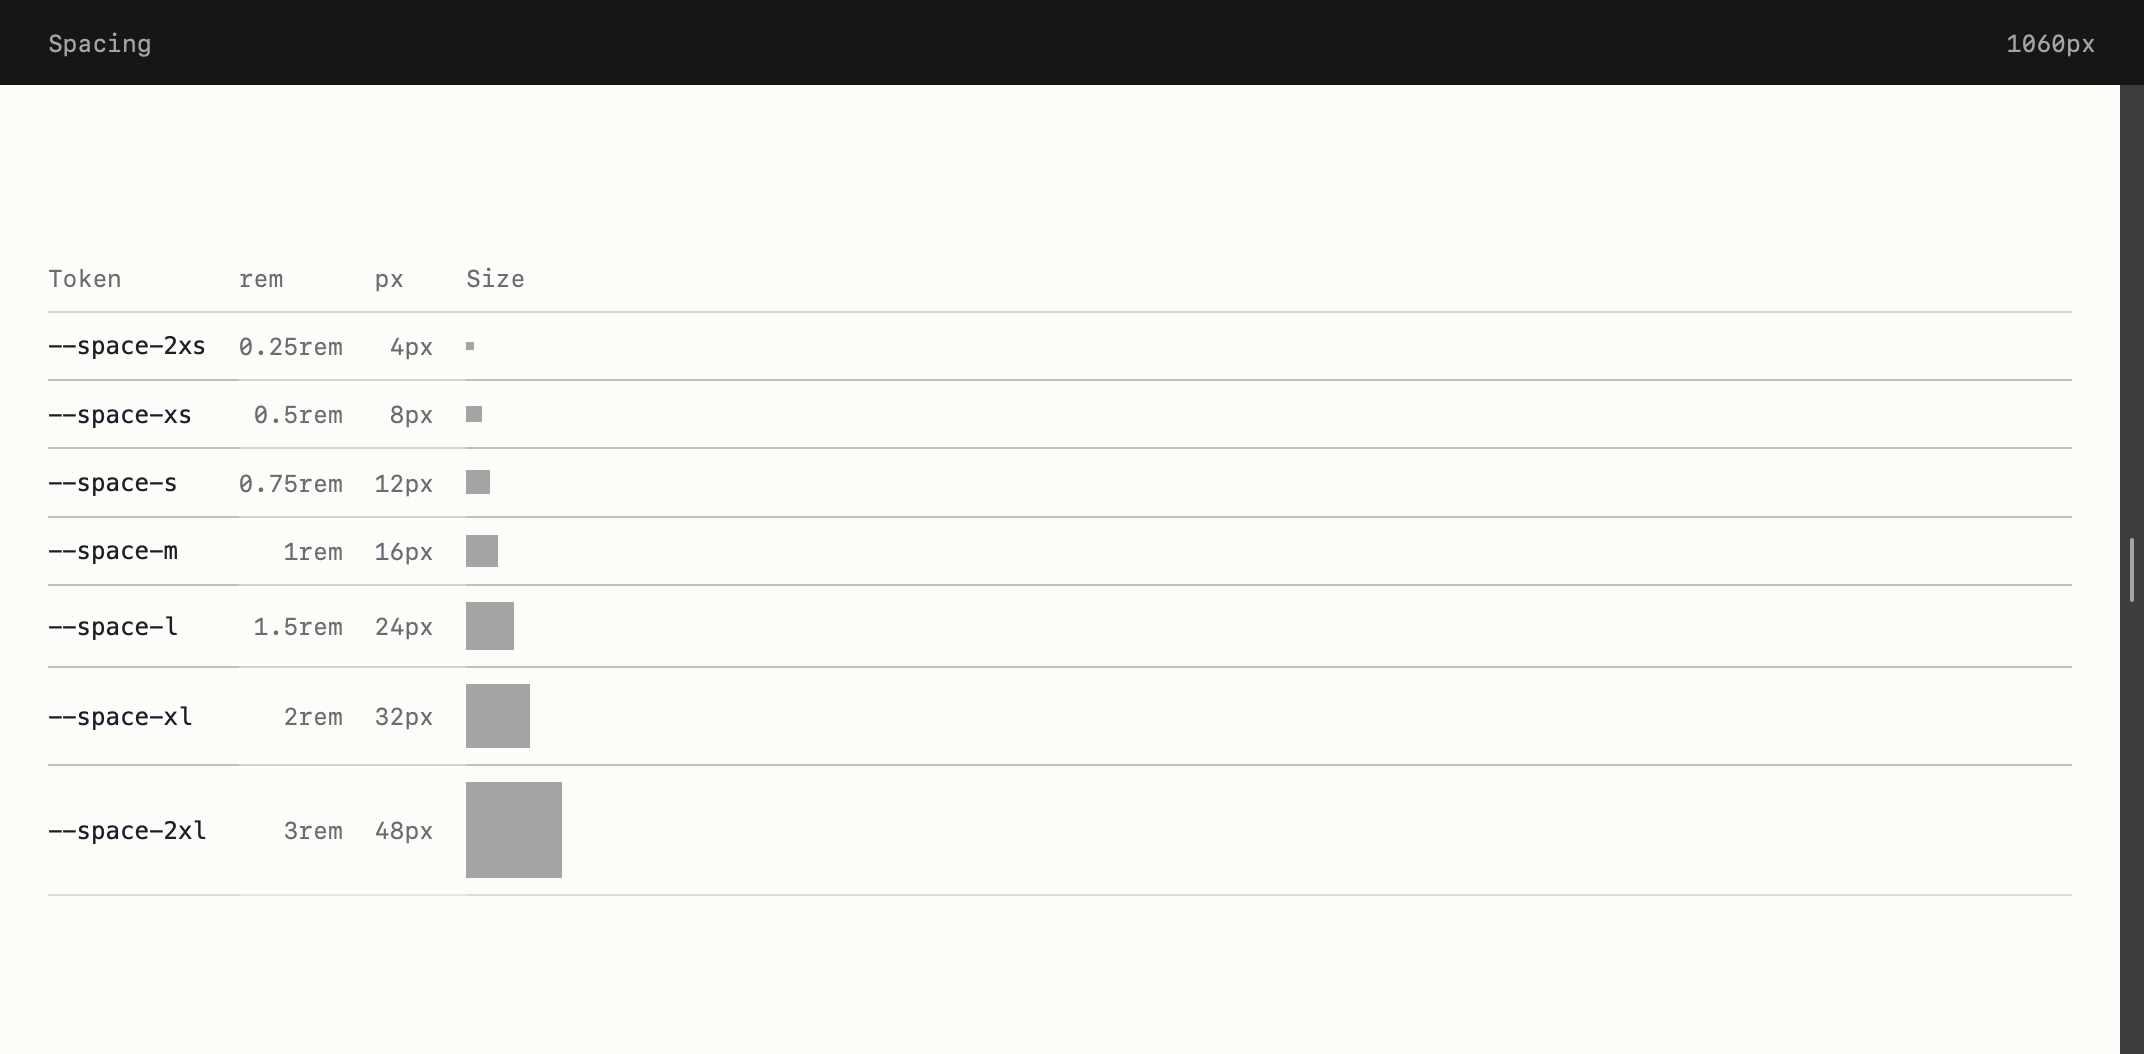
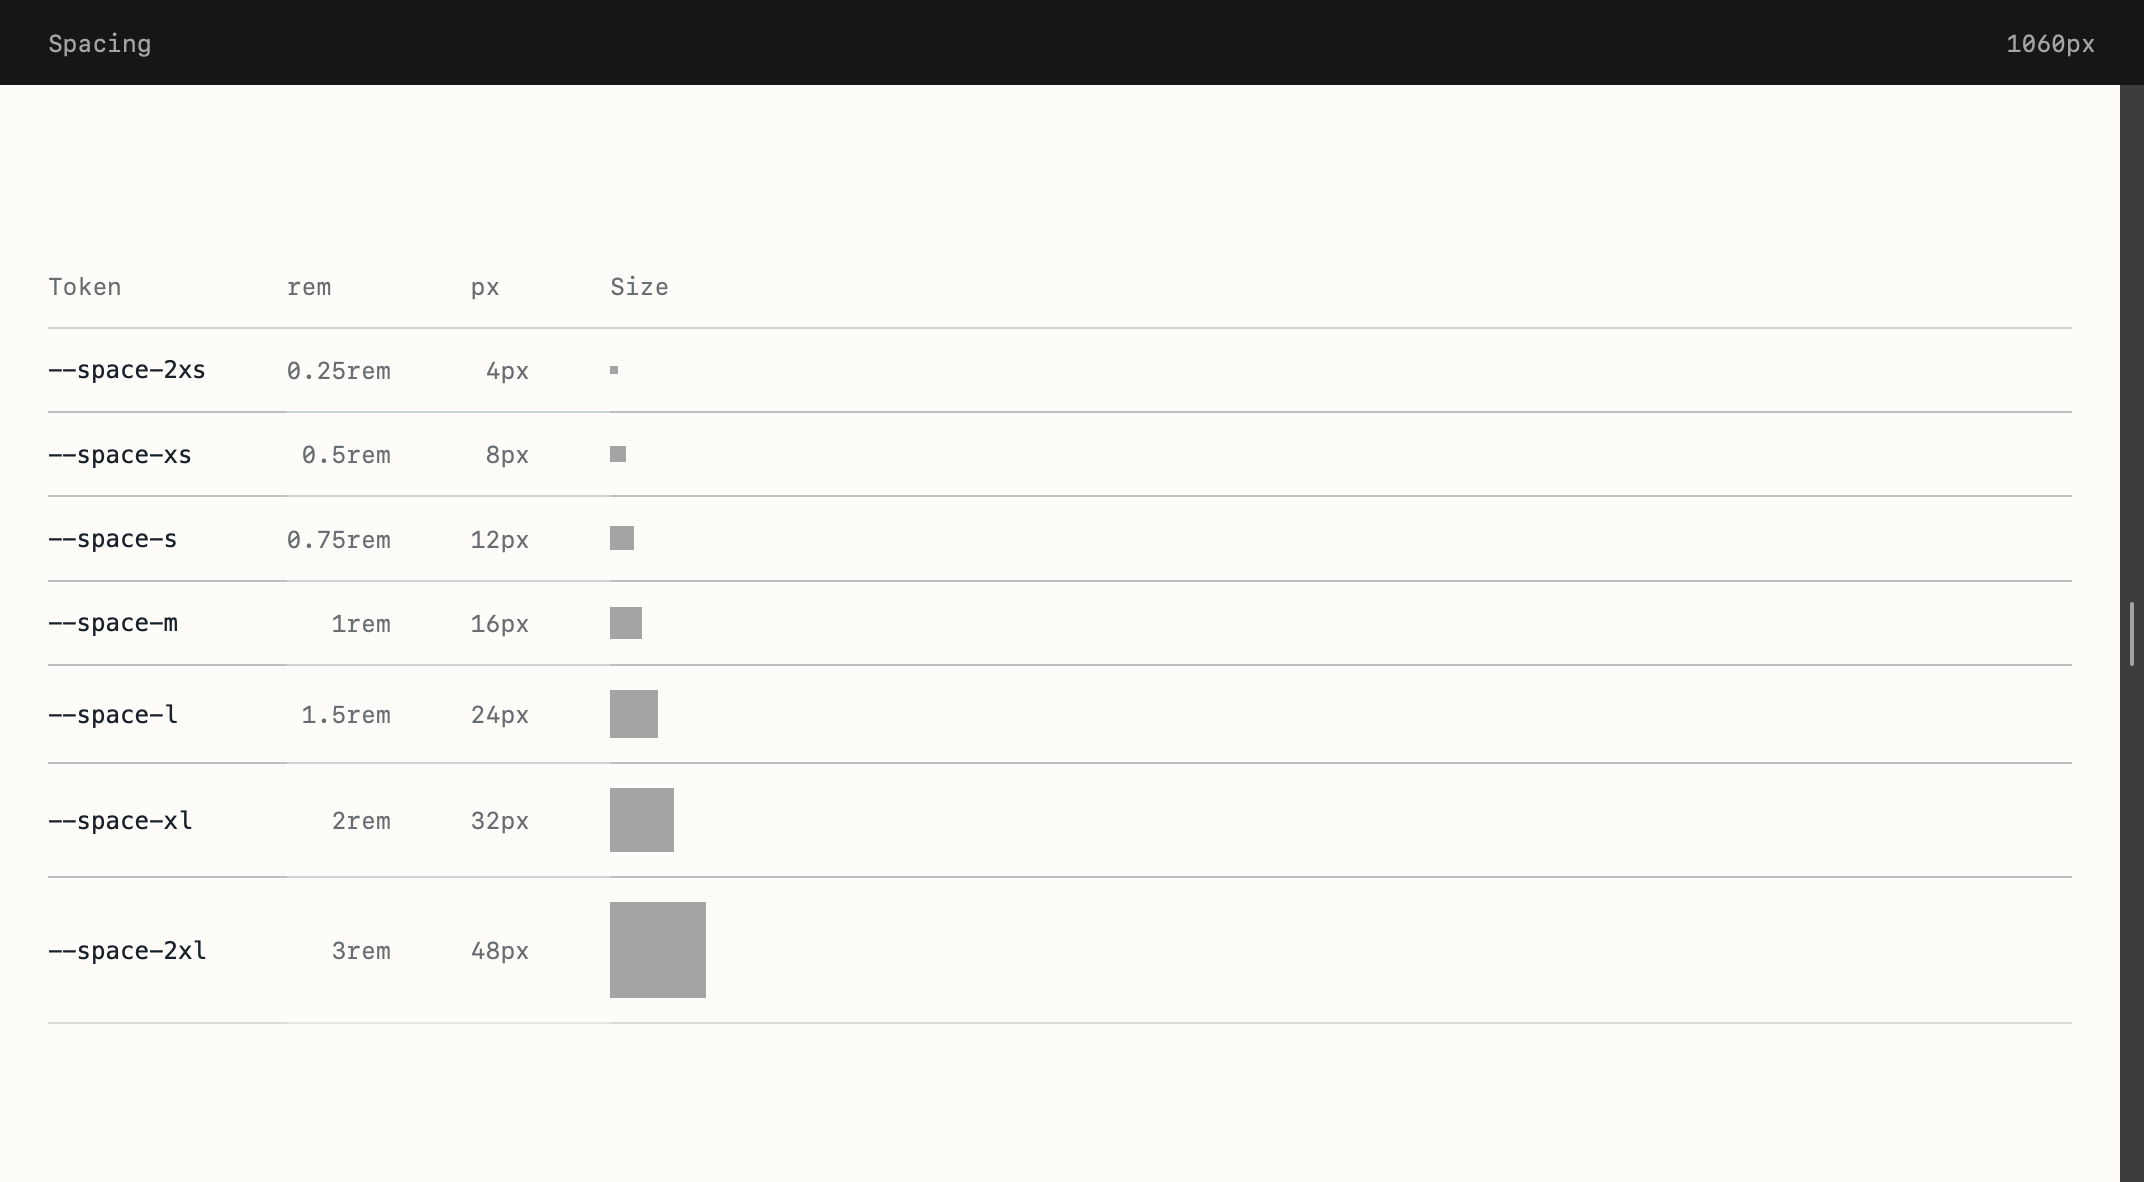
README screenshots match its examples, roomier sizes table

diff --git a/assets/frame.css b/assets/frame.css
@@ -62,8 +62,8 @@
 }
 
 .playground-ui-sizes__cell {
-	padding-block: 0.5rem;
-	padding-inline: 0 1rem;
+	padding-block: 0.75rem;
+	padding-inline: 0 2.5rem;
 	border-block-end: 1px solid color-mix(in srgb, currentColor 15%, transparent);
 	text-align: start;
 	vertical-align: middle;

diff --git a/README.md b/README.md
@@ -12,23 +12,23 @@ Subfolders become groups in the sidebar: `form/input.php` is listed under "Form"
 
 ## Cases
 
-![A button case dragged to 360px, its buttons wrapping](.github/cases.png)
+![The three cases below, the first dragged to 360px](.github/cases.png)
 
 `Playground::case()` takes a label and a closure that renders the case. Each case gets an anchor and its own iframe, loaded at `?case=<id>`, so media queries react to the frame's width. Drag its right edge to resize it; the width shows next to the label.
 
 ```php
 use Medienbaecker\Playground\Playground;
 
-Playground::case('Long label', fn () => snippet('components/button', ['label' => 'Lorem ipsum dolor sit amet']));
+Playground::case('Primary', fn () => snippet('components/button', ['label' => 'Lorem ipsum dolor', 'url' => '#']));
 
 // Attributes go on the box around the case, e.g. to set a background
-Playground::case('On purple', fn () => snippet('components/button'), attributes: ['data-background' => 'purple-700']);
+Playground::case('On dark', fn () => snippet('components/button', ['label' => 'Lorem ipsum dolor', 'url' => '#']), attributes: ['data-surface' => 'dark']);
 ```
 
 A case that renders one snippet can use `Playground::component()`:
 
 ```php
-Playground::component('Large', 'components/button', ['label' => 'Lorem ipsum', 'size' => 'large']);
+Playground::component('Large', 'components/button', ['label' => 'Lorem ipsum dolor', 'url' => '#', 'size' => 'large']);
 ```
 
 Two custom properties set the space around a case. Set them in `assets/css/playground/playground.css` for all cases, or on one case through its attributes:
@@ -58,17 +58,20 @@ A playground page documents `components/<page name>` when that snippet exists, s
  */
 ```
 
-The page then shows that snippet's docblock above the cases: the description and a table of its `@var` props.
+The page then shows that snippet's docblock above the cases: the description, Markdown allowed, and a table of its `@var` props.
 
 ```php
 <?php
 
 /**
- * Button Component
+ * Button
  *
- * Shown as the description, Markdown allowed.
+ * A link styled as a button, or a button when there is no URL. Nothing is output without a label.
  *
- * @var string|null $label Shown in the props table
+ * @var string|null $label Plain text
+ * @var string|null $url Without one it renders a `<button>`
+ * @var 'primary'|'secondary'|'ghost' $variant
+ * @var 'large'|'medium'|'small' $size
  */
 ```
 
@@ -85,10 +88,11 @@ The first paragraph is the summary and is not shown. A one-line `/** @var Page $
 Three helpers show custom properties with their computed values. Each takes a label and the property names in the order to show them:
 
 ```php
-Playground::swatches('Purple', ['--brand-purple-100', '--brand-purple-300', '--brand-purple-700']);
-Playground::swatches('Roles on purple', ['--color-text', '--color-accent'], attributes: ['data-tone' => 'dark']);
-Playground::sizes('Spacing', ['--spacing-xs', '--spacing-s', '--spacing-m']);
-Playground::type('Font sizes', ['--font-size-s', '--font-size-base', '--font-size-l']);
+Playground::swatches('Colors', ['--color-ink', '--color-muted', '--color-background', '--color-surface', '--color-line', '--color-accent', '--color-on-accent']);
+
+Playground::sizes('Spacing', ['--space-2xs', '--space-xs', '--space-s', '--space-m', '--space-l', '--space-xl', '--space-2xl']);
+
+Playground::type('Font sizes', ['--font-size-2xl', '--font-size-xl', '--font-size-l', '--font-size-m', '--font-size-base', '--font-size-s']);
 ```
 
 ## Placeholder content
